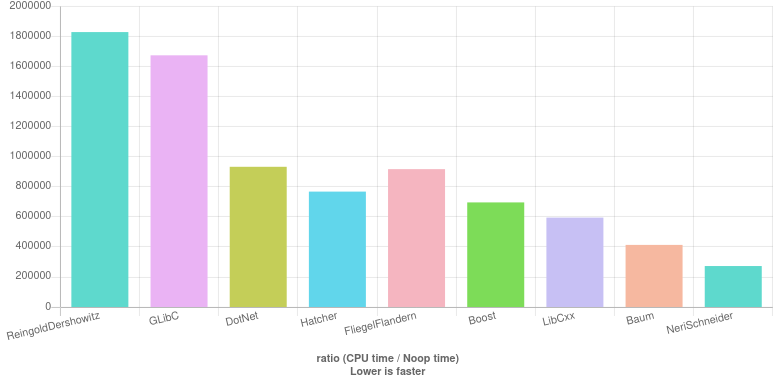
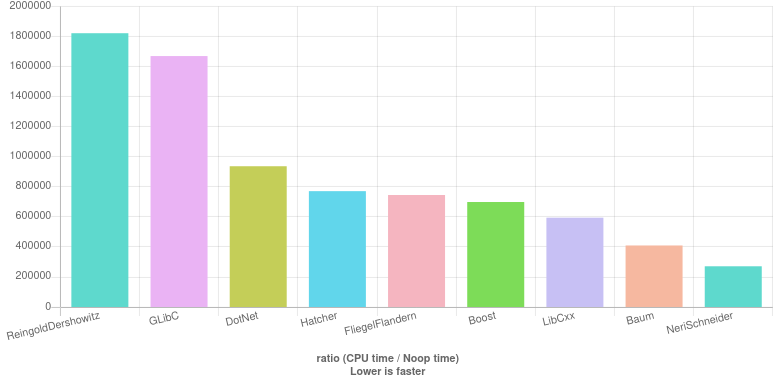
Updated charts.

Changed region(s): [[0.4955, 0.4341, 0.5884, 0.5271], [0.0929, 0.062, 0.1548, 0.093]]

diff --git a/README.md b/README.md
@@ -19,6 +19,16 @@ than others.
 
 ![Benchmarks](https://github.com/cassioneri/calendar/blob/master/benchmarks/benchmarks.png)
 
+[to_date](https://quick-bench.com/q/A1iZvi5Zl8aEmn05bhZ6a0zuxRU): NeriSchneider is 6.7x faster than
+ReingoldDershowitz, 6.2x faster than glibc, 3.5x faster than .NET, 2.8x faster than Hatcher, 2.7x
+faster than FliegelFlandern, 2.6x faster than Boost, 2.2x faster than libc++ and 1.5x faster than
+Baum.
+
+[to_rata_die](https://quick-bench.com/q/uwkg8IoTCpX7dK8sAHiglfoZXiU): NeriSchneider is 3.2x faster
+than ReingoldDershowitz, 2x faster than glibc, 1.8x faster than .NET, 2.3x faster than Hatcher, 2.2x
+faster than FliegelFlandern, 1.7x faster than Boost, 1.7x faster than libc++ and 1.5x faster than
+Baum.
+
 [is_leap_year](https://quick-bench.com/q/RvIyns6SRK_toLH31jELkLFZqwM): NeriSchneider_mcomp is 3.1x
 faster than Ubiquitous (the implementation used virtually everywhere.) NeriSchneider_mod is 1.9x
 faster than Ubiquitous.
@@ -26,20 +36,11 @@ faster than Ubiquitous.
 [last_day_of_month](https://quick-bench.com/q/3JTVUY8rBBMxPgfdzkh30DwUaXI): NeriSchneider is 3.1x
 faster than Boost and 1.1x faster than libc++.
 
-[to_rata_die](https://quick-bench.com/q/uwkg8IoTCpX7dK8sAHiglfoZXiU): NeriSchneider is 3.2x faster
-than ReingoldDershowitz, 2x faster than glibc, 1.8x faster than .NET, 2.3x faster than Hatcher, 2.2x
-faster than FliegelFlandern, 1.7x faster than Boost, 1.7x faster than libc++ and 1.5x faster than
-Baum.
-
-[to_date](https://quick-bench.com/q/A1iZvi5Zl8aEmn05bhZ6a0zuxRU): NeriSchneider is 6.7x faster than
-ReingoldDershowitz, 6.1x faster than glibc, 3.4x faster than .NET, 2.8x faster than Hatcher, 3.4x
-faster than FliegelFlandern, 2.6x faster than Boost, 2.2x faster than libc++ and 1.5x faster than
-Baum.
-
-**Disclaimer**: Benchmarks above compare implementations as of 2020-May-02. They might have been
-slightly edited to get: (a) consistent function signatures; (b) storage types (for years, months,
-days and day counts) closer to C++20 requirements; (c) consistent epoch (unix time 1970-Jan-01).
-Some originals deal with date and time but the variants used here work on dates only.
+**Disclaimer**: Benchmarks above show a single run and YMMV. They compare implementations as of
+2020-May-02 which might have been slightly edited to get: (a) consistent function signatures; (b)
+cpnsistent storage types (for years, months, days and day counts) closer to C++20 requirements; (c)
+consistent epoch (unix time 1970-Jan-01). Some originals deal with date and time but the variants
+used here work on dates only.
 
 Tests show correctness and compliance with the C++ Standard, that is, `to_rata_die` and `to_date`
 are strictly increasing 1-to-1 maps between dates in [-32768-Jan-01, 32767-Dec-31] and day counts in
